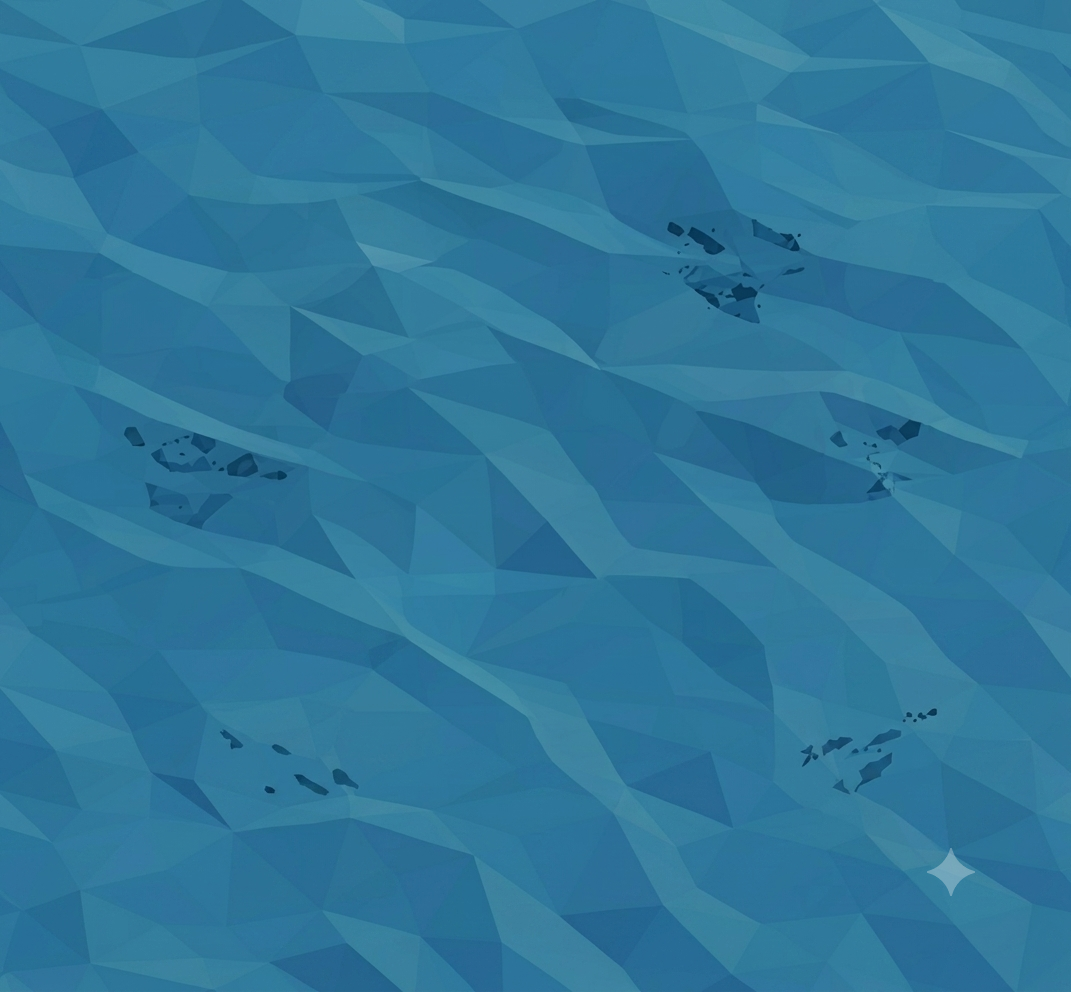
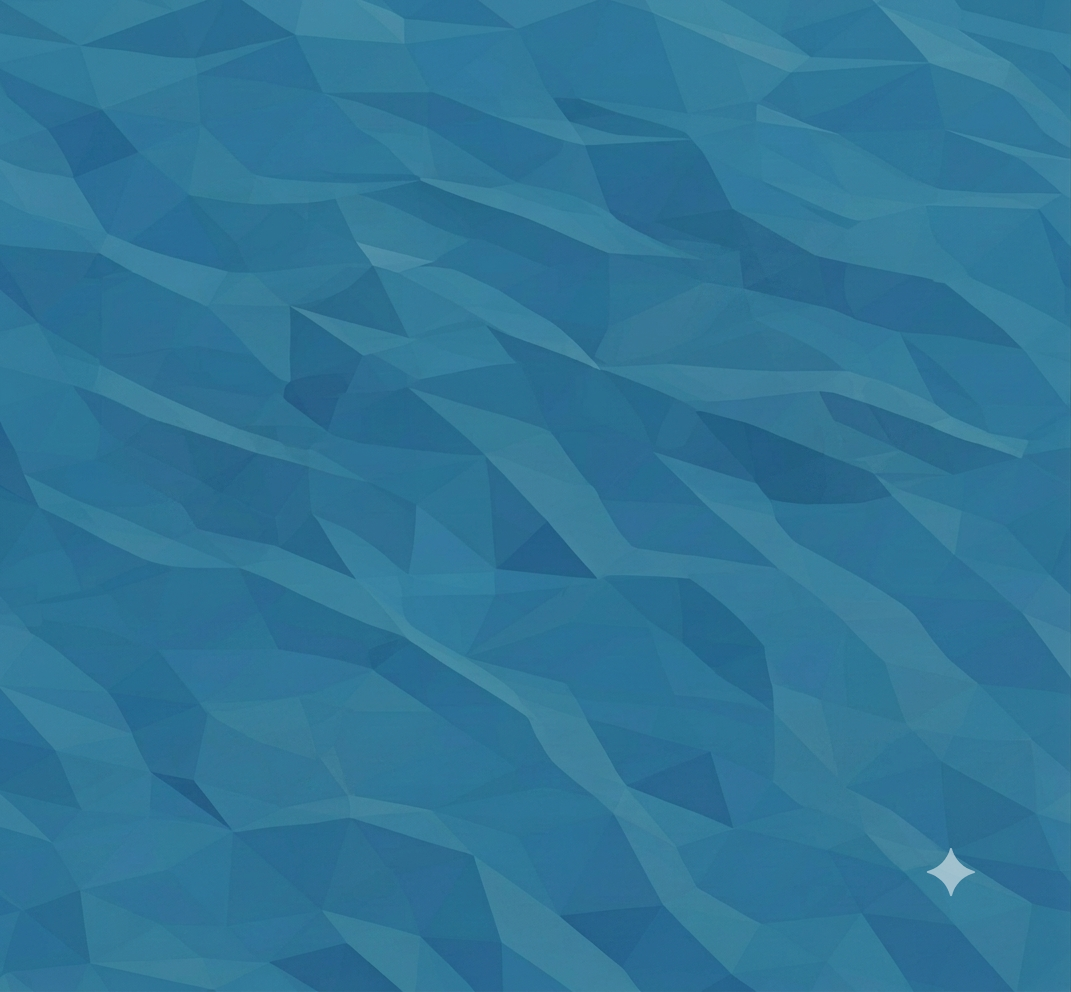
Feature Upgrades

diff --git a/index.html b/index.html
@@ -64,13 +64,13 @@
         /* ─── MAIN MENU ─── */
         #menu-screen {
             background: var(--near-black);
-            justify-content: flex-start;
-            padding-top: 10px;
+            padding-top: 0;
             padding-bottom: 40px;
             position: relative;
             min-height: 100%;
             overflow-y: auto;
             -webkit-overflow-scrolling: touch;
+            justify-content: flex-start;
         }
         #menu-screen::before {
             content: '';
@@ -99,12 +99,13 @@
             max-width: 792px;
             padding: 0 16px 30px 16px;
             flex: 1;
+            margin-top: 0;
         }
 
         #menu-logo-container {
             width: 100%;
             max-width: 435px;
-            margin-top: 12px;
+            margin-top: 10px;
             margin-bottom: 2px;
             display: flex;
             justify-content: center;
@@ -673,7 +674,6 @@
         .gui-top-btn.tech-btn:hover {
             background: rgba(201, 162, 39, 0.1);
         }
-        /* ─── MENU BUTTON NARROW ─── */
         .gui-top-btn.menu-btn {
             padding: 4px 6px;
             min-width: 28px;
@@ -1589,7 +1589,6 @@
                     <div class="popup-divider"></div>
                     <button data-action="build-mine" class="mine-btn"><span class="action-icon">⛏</span><span class="action-label">Build Mine</span></button>
                     <button data-action="build-quarry" class="quarry-btn"><span class="action-icon">🪨</span><span class="action-label">Build Quarry</span></button>
-                    <!-- Fishing & Farm actions (shown conditionally) -->
                     <button data-action="launch-fishing" class="fish-btn" style="display:none;"><span class="action-icon">🎣</span><span class="action-label">Launch Fishing Boats</span></button>
                     <button data-action="build-farm" class="farm-btn" style="display:none;"><span class="action-icon">🌾</span><span class="action-label">Build Farm</span></button>
                     <div class="popup-divider"></div>
@@ -1654,7 +1653,6 @@
         ASSET_PATHS['resource_wood'] = 'resource_wood.png';
         ASSET_PATHS['resource_stone'] = 'resource_stone.png';
         ASSET_PATHS['resource_fish'] = 'resource_fish.png';
-        // New assets for fishing and farming
         ASSET_PATHS['fishing'] = 'fishing.png';
         ASSET_PATHS['farm'] = 'farm.png';
         ASSET_PATHS['ui_gold'] = 'ui_gold.png';
@@ -2805,8 +2803,6 @@
                     if (tileData.fishing && tileData.farm) discount = Math.max(discount, 0.35);
                 }
             }
-            // Also check if the city itself has a fishing or farm tile in its influence
-            // and stack with quarry discount
             return discount;
         }
 
@@ -3906,7 +3902,6 @@
                     return;
                 }
                 cost = unitDef.cost;
-                // Apply discount from nearby city
                 const city = G.cities.find(c => c.owner === tribe.id && hexDistance({ q: c.q, r: c.r }, { q: harbor.q,
                         r: harbor.r }) <= 2);
                 if (city) {
@@ -4894,18 +4889,37 @@
 
         function showActionPopup(x, y) {
             const rect = canvas.getBoundingClientRect();
+            // We'll position the popup so that it is fully visible.
+            // We'll measure the popup after it's visible, but we need to know its size.
+            // We'll set display to flex, measure, then adjust.
+            popup.style.display = 'flex';
+            popup.style.opacity = '0'; // hide briefly for measurement
+            // Force a reflow to get accurate dimensions
             const popupRect = popup.getBoundingClientRect();
-            let left = x - popupRect.width / 2;
-            let top = y - popupRect.height - 10;
-            // Ensure the popup is fully visible within the viewport
-            const padding = 10;
-            if (left < padding) left = padding;
-            if (left + popupRect.width > rect.width - padding) left = rect.width - popupRect.width - padding;
-            if (top < padding) top = padding;
-            if (top + popupRect.height > rect.height - padding) top = rect.height - popupRect.height - padding;
+            const pw = popupRect.width;
+            const ph = popupRect.height;
+
+            // Desired position: centered above the click point, but if it overflows, adjust.
+            let left = x - pw / 2;
+            let top = y - ph - 10; // above the cursor
+
+            // Clamp to viewport
+            const padding = 8;
+            const maxLeft = rect.width - pw - padding;
+            const maxTop = rect.height - ph - padding;
+            left = Math.max(padding, Math.min(left, maxLeft));
+            top = Math.max(padding, Math.min(top, maxTop));
+
+            // If still not visible (e.g., too small screen), force to center
+            if (left < padding || left > maxLeft || top < padding || top > maxTop) {
+                left = (rect.width - pw) / 2;
+                top = (rect.height - ph) / 2;
+            }
+
             popup.style.left = left + 'px';
             popup.style.top = top + 'px';
-            popup.style.display = 'flex';
+            popup.style.opacity = '1'; // show
+
             // Trigger show animation
             requestAnimationFrame(() => {
                 popup.classList.add('show');
@@ -4916,6 +4930,7 @@
             popup.classList.remove('show');
             setTimeout(() => {
                 popup.style.display = 'none';
+                popup.style.opacity = '1'; // reset
             }, 150);
             G.selectedResourceTile = null;
         }
@@ -6605,7 +6620,7 @@
                 // Setup popup dismissal
                 setupPopupDismissal();
 
-                console.log('Oba v11 – Mobile-optimized with fishing, farming, harbor scaling, and smart menus.');
+                console.log('Oba v12 – Context menu fully visible, logo at top, menu only scrolls when needed.');
             });
         });
     </script>
